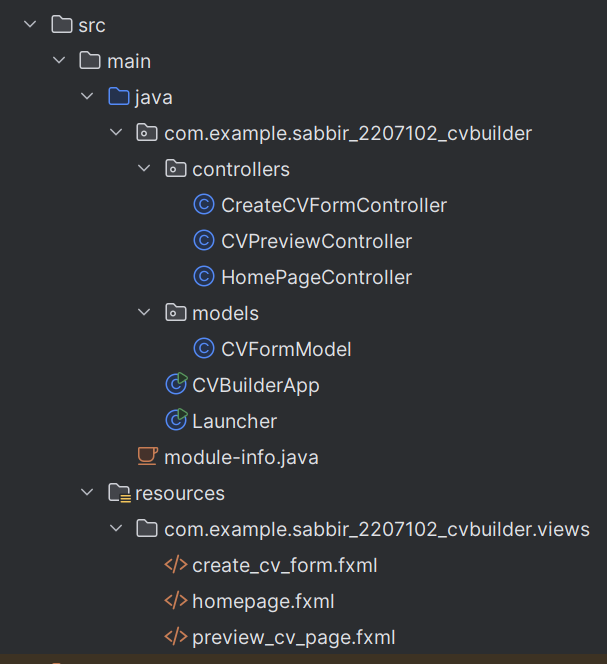
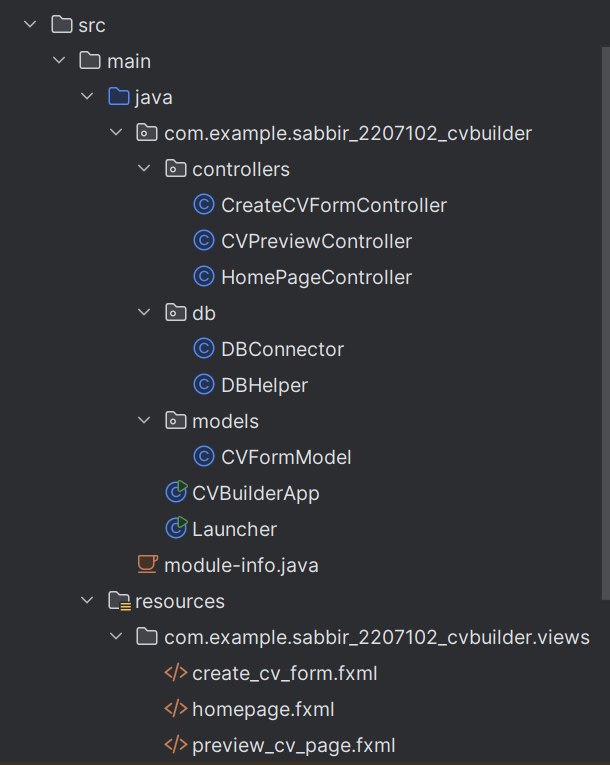
Updated file tree structure and features details

Changed region(s): [[0.089, 0.0, 0.9786, 0.994], [0.9786, 0.0602, 1.0, 0.7831], [0.0297, 0.0301, 0.0593, 0.0602]]

diff --git a/README.md b/README.md
@@ -1,5 +1,5 @@
 # Sabbir - 2207102 CV Buider
-This is a simple CV Builder app made with JavaFX. You just have to enter your details and the app will build a clean CV for you.The app contains clean and beautiful user interface
+This is a simple CV Builder app made with JavaFX. You just have to enter your details and the app will build a clean CV for you.
 
 ## Features:
 - Beautiuful user Interface
@@ -7,7 +7,9 @@ This is a simple CV Builder app made with JavaFX. You just have to enter your de
 - Image upload for your cv
 - Validation on Input fields
 - Displays alert dialog in each validation and confirmations
-- User can edit the generated CV again
+- Store Generated cv to local database using sql lite database
+- User can edit, delete or update the generated CV from database
+- Used threads for running tasks in background to boost app performance
 - Followed MVC pattern
   
 ## Folder Structure:
